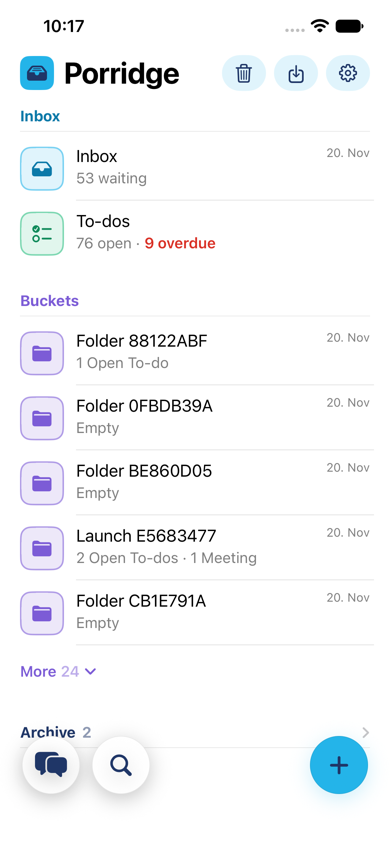
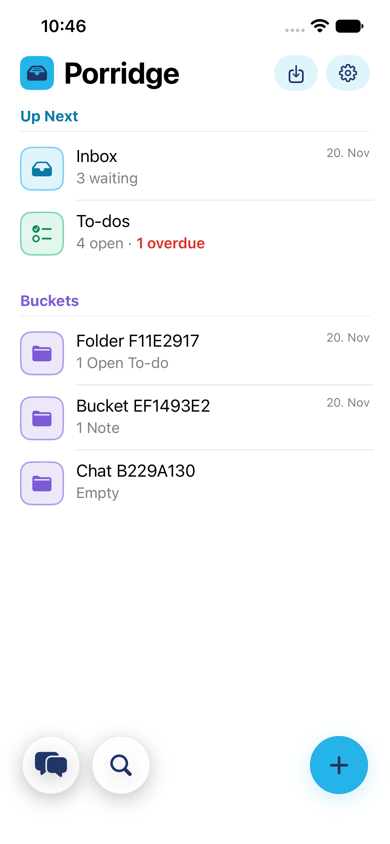
Home list: the section of Inbox and To-dos is called Up Next
Only the heading changes; the Inbox entry, its page and every other place
that names the inbox keep "Inbox".

diff --git a/Porridge/Views/Notes/NotesView.swift b/Porridge/Views/Notes/NotesView.swift
@@ -369,8 +369,8 @@ struct NotesView: View {
         let archived = HomeList.archivedProjects(projects).count + HomeList.archivedNotes(notes).count
         let isEmpty = folders.isEmpty && waiting.isEmpty
         return List(selection: $selection) {
-            // The inbox is the first category, with one entry of its name: what is new or in no bucket. Below it the
-            // to-dos folder, while there are to-dos to show: a view of every open one, wherever it is filed.
+            // "Up Next" is the first category: the Inbox (what is new or in no bucket) and below it the to-dos folder,
+            // while there are to-dos to show: a view of every open one, wherever it is filed.
             let todoFolder = Todos.folder(notes)
             Section {
                 InboxRow(waiting: waiting) { page = .inbox }
@@ -380,7 +380,7 @@ struct NotesView: View {
                         .lastInSection(true)
                 }
             } header: {
-                ListHeader(title: "Inbox", tint: .brandSky, isFirst: true)
+                ListHeader(title: "Up Next", tint: .brandSky, isFirst: true)
             }
             // The buckets as a list: the pinned and the latest few, the rest behind "More".
             if !folders.isEmpty {
@@ -1188,7 +1188,7 @@ enum ListPage: Hashable {
     case project(UUID)
     /// The inbox: what is new or in no bucket.
     case inbox
-    /// The virtual folder of every open to-do by due day (`Todos.folder`), in the Inbox section of the home list.
+    /// The virtual folder of every open to-do by due day (`Todos.folder`), in the "Up Next" section of the home list.
     case todos
     /// The chat with the notes.
     case chat

diff --git a/PorridgeUITests/TodoFlowTests.swift b/PorridgeUITests/TodoFlowTests.swift
@@ -126,6 +126,9 @@ final class TodoFlowTests: XCTestCase {
         let entry = app.buttons["TodosFolder"]
         XCTAssertTrue(entry.waitForExistence(timeout: 15), "to-dos folder missing under the inbox")
         XCTAssertTrue(entry.label.contains("overdue"), "the folder does not say that to-dos are late: \(entry.label)")
+        // The section of Inbox and To-dos is "Up Next"; the entry itself stays "Inbox".
+        XCTAssertTrue(app.staticTexts["Up Next"].exists, "the first section is not called Up Next")
+        XCTAssertTrue(app.buttons["InboxCategory"].label.hasPrefix("Inbox"), "the inbox entry lost its name")
         screenshot("inbox-todos-folder-home", app)
         entry.tap()
 

diff --git a/Porridge/Services/Todos.swift b/Porridge/Services/Todos.swift
@@ -314,7 +314,7 @@ enum Todos {
         return open + todos.filter(\.isDone)
     }
 
-    /// The virtual folder "To-dos" in the Inbox section of the home list: every open to-do, wherever it is filed,
+    /// The virtual folder "To-dos" in the "Up Next" section of the home list: every open to-do, wherever it is filed,
     /// in the groups of `dueGroups`, then those done today. Only a view: nothing is moved or stored.
     struct Folder {
         var groups: [(title: String, notes: [Note])]

diff --git a/Porridge/Views/Projects/ProjectsPane.swift b/Porridge/Views/Projects/ProjectsPane.swift
@@ -115,7 +115,7 @@ struct InboxRow: View {
     }
 }
 
-/// The to-dos folder as an entry of the Inbox section: every open to-do, how many there are and how many are late.
+/// The to-dos folder as an entry of the "Up Next" section, under the Inbox: every open to-do, how many there are and how many are late.
 struct TodoFolderRow: View {
     let folder: Todos.Folder
     var onOpen: () -> Void

diff --git a/DESIGN.md b/DESIGN.md
@@ -30,7 +30,7 @@ Sky, orange and green are for surfaces. As text or a symbol on a white page they
 - **Import menu:** a button in the bar beside Settings, on the home list and in a bucket: Import Audio, Import Plaud once signed in, Photo or File.
 - **Live Activity and notification:** the running meeting with its clock, pause and stop. Navy on the light Lock Screen card, white on the black Dynamic Island.
 - **Inbox:** rows like in every list. A bucket is chosen in the long press of a row; only a suggested bucket shows as a pill under it.
-- **Home list:** the Inbox with one entry of its name and, below it, the to-dos folder while there are to-dos to show; then the buckets: the pinned ones and the 5 latest others; "More" unfolds the rest in place.
+- **Home list:** the section "Up Next" with the Inbox and, below it, the to-dos folder while there are to-dos to show; then the section "Buckets": the pinned ones and the 5 latest others; "More" unfolds the rest in place.
 - **Row icons:** a rounded square as high as the two lines of the row, in the color of the kind, with the kind's symbol (`Note.kindSymbol`): to-do `checklist` (green), meeting `waveform` (navy), note `text.alignleft` or `paperclip` with a file (sky), link `link` (orange), image `photo`, PDF `doc.richtext`, file `doc` (navy). The same symbol names the kind in the plus menu, the bar of its page and the pills that point to a note (the source of a to-do, the sources of a chat answer). A pinned entry wears a small navy pin badge on the top right of the icon's border.
 - **Kinds:** to-dos, meetings, notes, links, images and files. Images and files are two kinds that behave alike. A bucket's filter pills show only the kinds it holds.
 - **Check boxes:** green squares for to-dos and for tasks inside summaries. Circles only for checklists you write in a note (the subtasks of a to-do are such a checklist).
@@ -108,7 +108,7 @@ The tasks of a summary are offered as to-dos; nothing becomes a to-do without a 
 A virtual folder of every open to-do, sorted by due day. It is a view, not a bucket: nothing is moved, stored or synced for it, it cannot be renamed, deleted or chosen as a place to file into, and the to-dos stay where they are (to-dos in no bucket also stay in the Inbox list).
 
 - **Scope:** all open to-dos, from the Inbox and every bucket. One place for what is due is the point of it; a folder of the Inbox's to-dos alone would leave out everything filed. (The alternative, only to-dos in no bucket, was left out for that reason.)
-- **Where:** on the home list, the second entry of the Inbox section, right under "Inbox": the kind's icon (green rounded square, `checklist`), the title "To-dos", under it "5 open" ("1 open", "Nothing open" when only done ones are left), followed by " · 2 overdue" in red and semibold when some are late. It is left out when there is nothing to show (no open to-do and none done today). On the Mac it is the row under the Inbox in the sidebar.
+- **Where:** on the home list, the second entry of the section "Up Next", right under "Inbox": the kind's icon (green rounded square, `checklist`), the title "To-dos", under it "5 open" ("1 open", "Nothing open" when only done ones are left), followed by " · 2 overdue" in red and semibold when some are late. It is left out when there is nothing to show (no open to-do and none done today). On the Mac it is the row under the Inbox in the sidebar.
 - **The page:** title "To-dos" with the green `checklist` square in the bar. Sections by due day, exactly the groups of the search chip "Open To-dos" (`Todos.dueGroups`): Overdue (header red), Today, Upcoming, No Due Date (headers green), each with its count, each sorted by due day; empty groups left out. Then "Done Today" (header navy): to-dos done since the start of today, the latest first. Rows are the ordinary rows (box, due day, progress, swipes and long press with the due date menu), and they name their buckets in the footer (`folder` symbol, violet, names joined by ", ", cut short first on a narrow row) in place of the date of the last change. Empty: "Nothing to Do", "Open to-dos from the inbox and every bucket show up here."
 - **Plus:** on this page the plus makes a new to-do at once (no menu), in no bucket.
 - **Rules** (`Todos.folder`): open = to-do, not done, not deleted, `archivedAt` nil. Done today = to-do, done, not deleted, `archivedAt` nil, `todoDoneAt` not before the start of today. Overdue count = open ones whose due day is before today (it changes at midnight). Sorting and groups as in "Due day rules" above.
